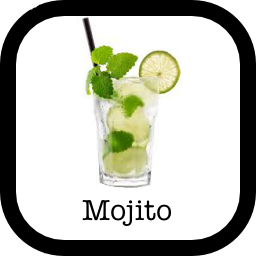
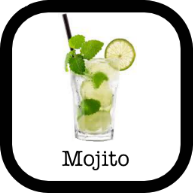
Temporary Button images added

diff --git a/DrinkMachineCore.py b/DrinkMachineCore.py
@@ -2,7 +2,7 @@ from guizero import *
 import DrinkSerial
 import time
 
-## ---------------LOAD IN SETTINGS-------------------
+#  ---------------LOAD IN SETTINGS-------------------
 rum         = 1
 vodka       = 2
 tequila     = 3
@@ -20,12 +20,12 @@ tonic       = 12
 
 
 
-## ---------------GLOBAL VARIALBES-------------------
+#  ---------------GLOBAL VARIALBES-------------------
 window_height = 700
 window_width = 1000
 image_size = 250
 
-## Calibration constants
+#  Calibration constants
 cc1 = 1
 cc2 = 0.98
 cc3 = 1.1
@@ -63,7 +63,7 @@ class Recipe:
 
 DarkAndStormy = Recipe(ingredients = [rum, gingerB, lime],
                        proportions = [0.36,0.55,0.09], image =
-                       "DarkAndStormy.jpg", addMessage = "Enjoy!")
+                       "DarkAndStormyButton.png", addMessage = "Enjoy!")
 
 Margarita = Recipe(ingredients = [tequila, lime, tripleS],
                    proportions = [0.57, 0.29, 0.14], image =
@@ -72,39 +72,39 @@ Margarita = Recipe(ingredients = [tequila, lime, tripleS],
 
 Cosmopolitan = Recipe(ingredients = [vodka, lime, tripleS, cranberry],
                       proportions = [0.67, 0.11, 0.11, 0.11], image =
-                      "Cosmopolitan.jpg", addMessage = "Enjoy!")
+                      "CosmopolitanButton.png", addMessage = "Enjoy!")
 
 RumPunch = Recipe(ingredients = [rum, orange, pineapple, cranberry],
                   proportions = [0.31, 0.23, 0.23, 0.23], image =
-                  "RumPunch.jpg", addMessage =
+                  "RumPunchButton.png", addMessage =
                   "Suggested: Add 1 pump Grenadine")
 
 MoscowMule = Recipe(ingredients = [vodka, gingerB, lime],
                     proportions = [0.24, 0.71, 0.06], image =
-                    "MoscowMule.jpg", addMessage = "Enjoy!")
+                    "MoscowMuleButton.png", addMessage = "Enjoy!")
 
 TequilaSunrise = Recipe(ingredients = [tequila, orange],
                         proportions = [0.33, 0.67], image =
-                        "TequilaSunrise.jpg", addMessage =
+                        "TequilaSunriseButton.png", addMessage =
                         "Add 2 pumps Grenadine")
 
 VodkaCranberry = Recipe(ingredients = [vodka, cranberry, lime],
                         proportions = [0.15, 0.77, 0.08], image =
-                        "VodkaCranberry.jpg", addMessage = "Enjoy!")
+                        "VodkaCranberryButton.png", addMessage = "Enjoy!")
 
 SexOnTheBeach = Recipe(ingredients = [vodka, peachS, orange, cranberry],
                        proportions = [0.13, 0.13, 0.37, 0.37], image =
-                       "SexOnTheBeach.jpg", addMessage = "Enjoy!")
+                       "SexOnTheBeachButton.png", addMessage = "Enjoy!")
 
 Mojito = Recipe(ingredients = [rum, lime, clubS], proportions =
-                [0.23, 0.15, 0.62], image = "Mojito.jpg", addMessage =
+                [0.23, 0.15, 0.62], image = "MojitoButton.png", addMessage =
                 "Add 2 pumps simple syrup + 2 pumps mint syrup")
 
-## -------------------GUI SETUP---------------------------
+#  -------------------GUI SETUP---------------------------
 app = App(title="MouthSmash", width=window_width,
          height=window_height, layout="grid")
 
-## Pages
+#  Pages
 page_one = Box(app, grid=[0,0], align="top", layout="grid")
 page_one_text = Text(page_one, grid = [0,0], align = "top", text = "PAGE ONE")
 page_two = Box(app, grid=[0,0], align="top", layout="grid",
@@ -190,8 +190,9 @@ def cmd07():
     print(MoscowMule.ing)
 
 mojitoButton = DrinkButton(cmd01, "MojitoButton.png", page_one, 0,0)
-pinaColadaButton = DrinkButton(cmd02, "Pina-Colada.jpg", page_one, 1,0)
+pinaColadaButton = DrinkButton(cmd02, "PinaColadaButton.png", page_one, 1,0)
 darkAndStormyButton = DrinkButton(cmd03, DarkAndStormy.image, page_one, 2,0)
+cosmopolitanButton = DrinkButton(cmd05, Cosmopolitan.image, page_one, 0,1)
 margaritaButton = DrinkButton(cmd04, Margarita.image, page_two, 0,0)
 #cosmopolitanButton = DrinkButton(cmd05, Cosmopolitan.image, page_two, 1,0)
 rumPunchButton = DrinkButton(cmd06, RumPunch.image, page_two, 2,0)
